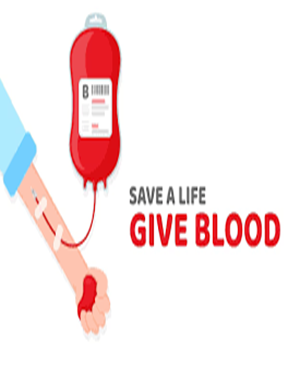
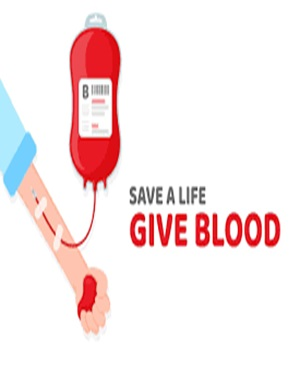
Coding issues fixed and some design change

diff --git a/BloodUnity/Controllers/AccountsController.cs b/BloodUnity/Controllers/AccountsController.cs
@@ -118,17 +118,6 @@ namespace BloodUnity.Controllers
                             DB.DonorTables.Add(Donor);
                             DB.SaveChanges();
                             checkdonor = DB.DonorTables.Where(d => d.NID == collectBloodMV.DonorDetails.NID).FirstOrDefault();
-
-                        }
-
-                        if ((DateTime.Now - checkdonor.LastDonationDate).TotalDays < 120)
-                        {
-                            ModelState.AddModelError(string.Empty, "Donor Already Donated Blood in Previous 120 Days!");
-                            transaction.Rollback();
-                        }
-                        else
-                        {
-
                             var checkbloodgroupstock = DB.BloodBankStockTables.Where(s => s.BloodBankID == bloodbankID && s.BloodGroupID == collectBloodMV.BloodGroupID).FirstOrDefault();
                             if (checkbloodgroupstock == null)
                             {
@@ -160,6 +149,48 @@ namespace BloodUnity.Controllers
                             DB.Entry(checkdonor).State = System.Data.Entity.EntityState.Modified;
                             DB.SaveChanges();
                             return RedirectToAction("BloodBankStock", "BloodBank");
+                            ///checkdonor = DB.DonorTables.Where(d => d.NID == collectBloodMV.DonorDetails.NID).FirstOrDefault();
+                        }
+                        ///checkdonor = DB.DonorTables.Where(d => d.NID == collectBloodMV.DonorDetails.NID).FirstOrDefault();
+                        if ((DateTime.Now - checkdonor.LastDonationDate).TotalDays < 120)
+                        {
+                            ModelState.AddModelError(string.Empty, "Donor Already Donated Blood in Previous 120 Days!");
+                            transaction.Rollback();
+                        }
+                        else
+                        {
+                            var checkbloodgroupstock = DB.BloodBankStockTables.Where(s => s.BloodBankID == bloodbankID && s.BloodGroupID == collectBloodMV.BloodGroupID).FirstOrDefault();
+                            if (checkbloodgroupstock == null)
+                            {
+                                var bloodbankstock = new BloodBankStockTable();
+                                bloodbankstock.BloodBankID = bloodbankID;
+                                bloodbankstock.BloodGroupID = collectBloodMV.BloodGroupID;
+                                bloodbankstock.Quantity = 0;
+                                bloodbankstock.Status = true;
+                                bloodbankstock.Description = "";
+                                DB.BloodBankStockTables.Add(bloodbankstock);
+                                DB.SaveChanges();
+                                checkbloodgroupstock = DB.BloodBankStockTables.Where(s => s.BloodBankID == bloodbankID && s.BloodGroupID == collectBloodMV.BloodGroupID).FirstOrDefault();
+                            }
+                            checkbloodgroupstock.Quantity += (int)collectBloodMV.Quantity;
+                            DB.Entry(checkbloodgroupstock).State = System.Data.Entity.EntityState.Modified;
+                            DB.SaveChanges();
+
+                            var collectblooddetail = new BloodBankStockDetailTable();
+                            collectblooddetail.BloodBankStockID = checkbloodgroupstock.BloodBankStockID;
+                            collectblooddetail.BloodGroupID = collectBloodMV.BloodGroupID;
+                            collectblooddetail.CampaignID = currentcampaign.CampaignID;
+                            collectblooddetail.Quantity = collectBloodMV.Quantity;
+                            collectblooddetail.DonorID = checkdonor.DonorID;
+                            collectblooddetail.DonateDateTime = DateTime.Now;
+                            DB.BloodBankStockDetailTables.Add(collectblooddetail);
+                            DB.SaveChanges();
+                            transaction.Commit();
+                            checkdonor.LastDonationDate = DateTime.Now;
+                            DB.Entry(checkdonor).State = System.Data.Entity.EntityState.Modified;
+                            DB.SaveChanges();
+                            return RedirectToAction("BloodBankStock", "BloodBank");
+
                         }
                     }
                     catch (DbEntityValidationException e)

diff --git a/BloodUnity/Controllers/RegistrationController.cs b/BloodUnity/Controllers/RegistrationController.cs
@@ -27,23 +27,23 @@ namespace BloodUnity.Controllers
                     return RedirectToAction("AlreadyExists", "Registration");
                 }
                 if (registrationMV.UserTypeID == 2 && registrationMV.ContactNo != null && registrationMV.User.Description != null && registrationMV.CityID.ToString() != null
-                    && registrationMV.User.UserName != null && registrationMV.User.EmailAddress != null && registrationMV.User.Password != null && registrationMV.User.Password.Length >= 5)
+                    && registrationMV.User.UserName != null && registrationMV.User.EmailAddress != null && registrationMV.User.Password != null && registrationMV.User.Password.Length >= 5 && registrationMV.ContactNo.Length ==11)
                 {
                     return RedirectToAction("DonorUser");
                 }
 
                 else if (registrationMV.UserTypeID == 3 && registrationMV.ContactNo != null && registrationMV.User.Description != null && registrationMV.CityID.ToString() != null
-                    && registrationMV.User.UserName != null && registrationMV.User.EmailAddress != null && registrationMV.User.Password != null && registrationMV.User.Password.Length >= 5)
+                    && registrationMV.User.UserName != null && registrationMV.User.EmailAddress != null && registrationMV.User.Password != null && registrationMV.User.Password.Length >= 5 && registrationMV.ContactNo.Length == 11)
                 {
                     return RedirectToAction("SeekerUser");
                 }
 
                 else if (registrationMV.UserTypeID == 4 && registrationMV.ContactNo != null && registrationMV.User.Description != null && registrationMV.CityID.ToString() != null
-                    && registrationMV.User.UserName != null && registrationMV.User.EmailAddress != null && registrationMV.User.Password != null && registrationMV.User.Password.Length >= 5)
+                    && registrationMV.User.UserName != null && registrationMV.User.EmailAddress != null && registrationMV.User.Password != null && registrationMV.User.Password.Length >= 5 && registrationMV.ContactNo.Length == 11)
                     return RedirectToAction("HospitalUser");
 
                 else if (registrationMV.UserTypeID == 5 && registrationMV.ContactNo != null && registrationMV.User.Description != null && registrationMV.CityID.ToString() != null
-                    && registrationMV.User.UserName != null && registrationMV.User.EmailAddress != null && registrationMV.User.Password != null && registrationMV.User.Password.Length >= 5)
+                    && registrationMV.User.UserName != null && registrationMV.User.EmailAddress != null && registrationMV.User.Password != null && registrationMV.User.Password.Length >= 5 && registrationMV.ContactNo.Length == 11)
                     return RedirectToAction("BloodBankUser");
                 else
                 {
